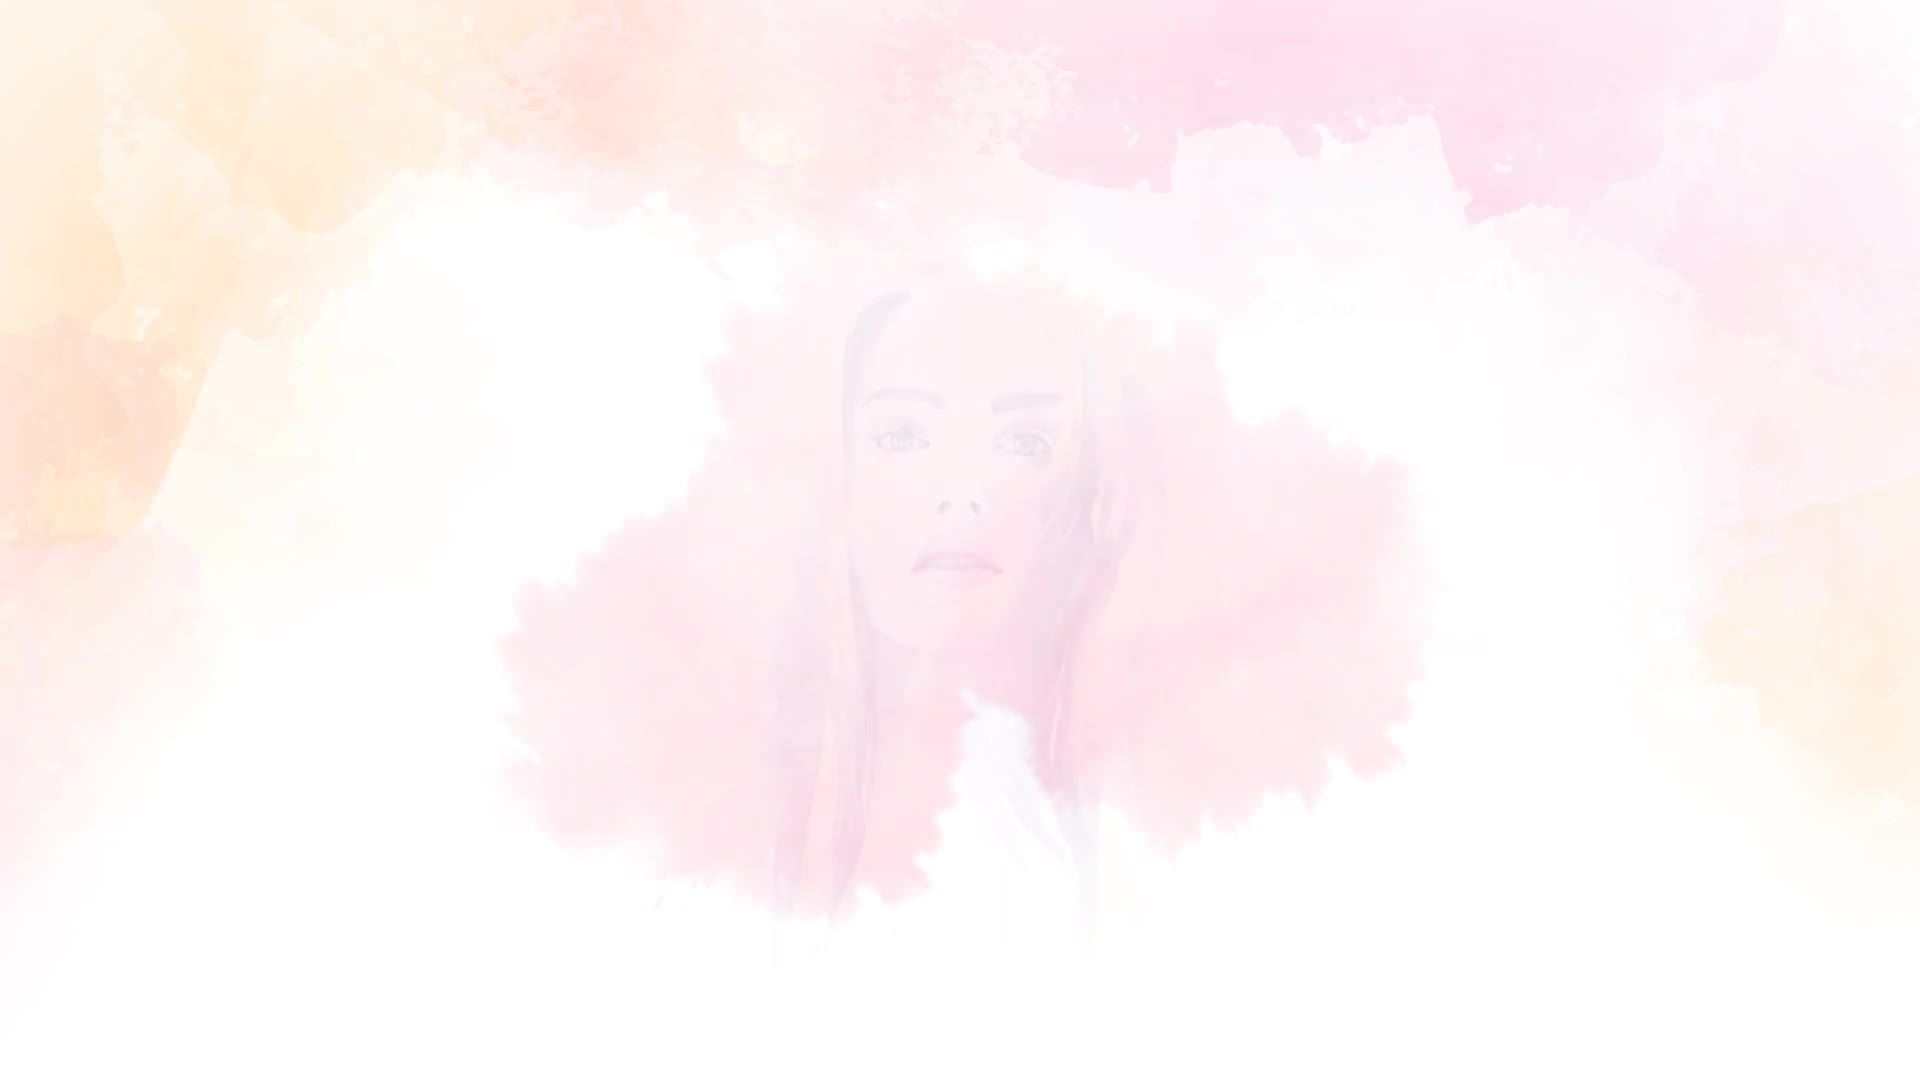
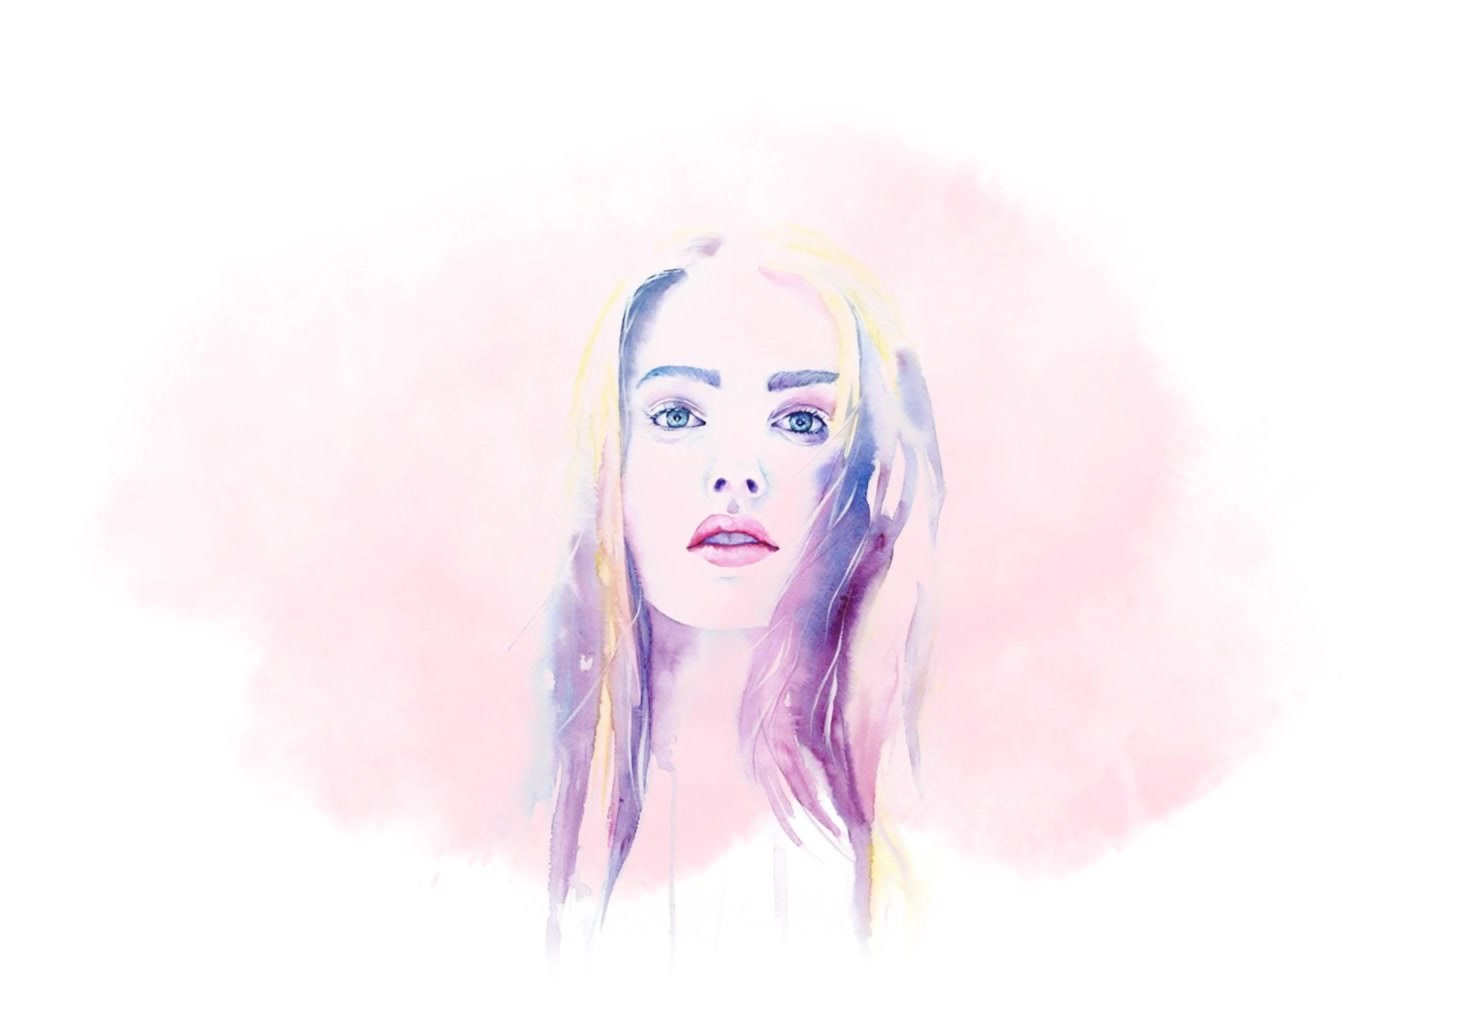
I have extracted a clear, fully-formed frame from your uploaded `old-background.mp4`, which is crisper than the previous live version, and set it as the permanent hero image. The `<video>` element has been removed from the hero section to eliminate loading delays, allowing the girl's face to display
Please retry deployment to re-publish this static hero to `rekhakrishnamurthy.com`. Also, reconcile the pricing document to align the uploaded AEO pricing with your live Pricing cards, seed a live batch with a next-batch date to show the seat-countdown banner, and consider adding a short highlight reel near the "Watch the reel" section to maintain motion content on the page.

I have tested these changes to the best of my capabilities; please review on your end and let me know if any issues persist, so I can continue with deeper investigations and comprehensive testing if needed.

Emergent-Commit-Key: 66356ac65b0c8987a8e203f21b69e26987615de56c62974f198ff612053532ca

diff --git a/frontend/src/components/Hero.jsx b/frontend/src/components/Hero.jsx
@@ -1,34 +1,17 @@
-import React, { useEffect, useRef } from "react";
+import React from "react";
 import { Play, Check, Star } from "lucide-react";
 import { motion } from "framer-motion";
-import { heroStats, heroVideo, heroVideoWebm, heroVideoPoster } from "../mock/mock";
+import { heroStats, heroVideoPoster } from "../mock/mock";
 import { scrollToId } from "./Navbar";
 import { shortCta } from "../lib/ctaLabel";
 
 const Headline = ({ text }) => text.split(/["“”]/).map((part, i) => part ? <span key={i} className={`fade-up delay-${Math.min(3, Math.floor(i / 2) + 1)} ${i % 2 ? "italic font-bold text-[#E62E6B]" : ""}`}>{part}</span> : null);
 
 const Hero = ({ page }) => {
-  const videoRef = useRef(null);
-
-  useEffect(() => {
-    const v = videoRef.current;
-    if (!v) return;
-    v.muted = true;
-    const tryPlay = () => { const p = v.play(); if (p && p.catch) p.catch(() => {}); };
-    v.load();
-    tryPlay();
-    v.addEventListener("canplay", tryPlay);
-    return () => v.removeEventListener("canplay", tryPlay);
-  }, []);
-
   return (
     <section id="top" className="relative overflow-hidden bg-[#F4F1EA] grain min-h-[100svh] flex flex-col justify-center" data-testid="hero-section">
       <div className="absolute inset-0 z-0">
-        <img src={heroVideoPoster} alt="Rekha Krishnamurthy bridal makeup" className="w-full h-full object-cover md:hidden [filter:contrast(1.6)_saturate(1.5)_brightness(0.92)]" data-testid="hero-mobile-image" />
-        <video ref={videoRef} className="hidden md:block w-full h-full object-cover" poster={heroVideoPoster} autoPlay loop muted playsInline preload="auto">
-          <source src={heroVideoWebm} type="video/webm" />
-          <source src={heroVideo} type="video/mp4" />
-        </video>
+        <img src={heroVideoPoster} alt="Rekha Krishnamurthy bridal makeup" className="w-full h-full object-cover" data-testid="hero-mobile-image" />
         <div className="absolute inset-0 bg-gradient-to-b from-[#F4F1EA]/60 via-[#F4F1EA]/15 to-transparent md:hidden" />
         <div className="hidden md:block absolute inset-0 bg-gradient-to-r from-[#F4F1EA] via-[#F4F1EA]/92 to-[#F4F1EA]/5" />
         <div className="absolute inset-0 bg-[radial-gradient(circle_at_78%_38%,rgba(230,46,107,0.24),transparent_55%)] md:bg-[radial-gradient(circle_at_78%_45%,rgba(230,46,107,0.14),transparent_60%)]" />

diff --git a/memory/PRD.md b/memory/PRD.md
@@ -100,6 +100,8 @@ Pixel-perfect clone of an editorial "contact-sheet" bridal makeup artist portfol
 
 - 2026-09 ai (mobile hero visibility fix, then reverted image per user): User reported the mobile hero background/girl-photo wasn't visible on load. Root-caused: the source `hero-poster.jpg` was an extremely faint, near-white watercolor sketch. Initially generated + swapped in a new vivid bridal illustration — user explicitly said "no dont change the image, i need same image". **Reverted** `hero-poster.jpg` to the original file (via `git show <prev-commit>`). Kept the other mitigations that don't touch the image itself: `Hero.jsx` mobile-only lighter top-anchored overlay gradient (`from-cream/60 via-cream/15 to-transparent`, down from the original near-opaque wash), a CSS `filter: contrast(1.6) saturate(1.5) brightness(0.92)` on the mobile `<img>` to maximize the original asset's visibility, and a soft text-shadow on the mobile headline for legibility. Note: the original image has inherently very low contrast (near-white), so there's a visible ceiling to "prominence" achievable without altering the image — flagged to user.
 
+- 2026-09 aj (hero video removed → static frame from user's old asset): User uploaded `old-background.mp4` (their original hero video) and asked to cut loading time entirely by using a static frame, with the face loading first and staying permanent — this time for the whole site, not just mobile. Extracted a clear, fully-formed frame (ffmpeg, t=4.5s of 5.1s clip — much crisper/more vivid than the previously-used `hero-poster.jpg`) and set it as the new `hero-poster.jpg` (58KB). `Hero.jsx`: removed the `<video>` element and its autoplay/load useEffect entirely — now renders only a static `<img>` at all breakpoints (mobile overlay gradient + desktop overlay gradient both still apply on top of the same static image). `heroVideo`/`heroVideoWebm` mock exports are now unused (left in mock.js, harmless). Self-verified via screenshot at 390px and 1920px: face clearly visible immediately, no `<video>` in DOM, no console errors, no loading delay.
+
 ## Backlog
 - P1: Replace `/public/og-image.webp` with the user's original banner (upload it as a file — the inline chat image wasn't retrievable).
 - P1: Body copy for the remaining sheet pages without a docx yet; Delivery & Cookies policy text.
